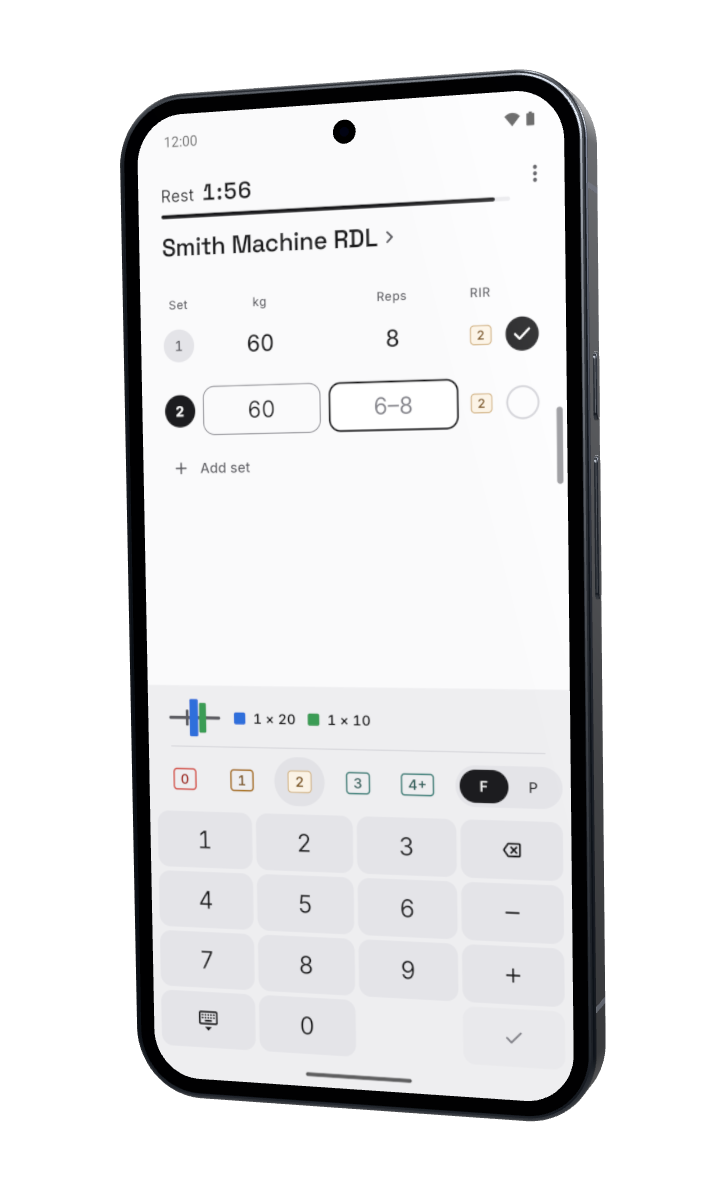
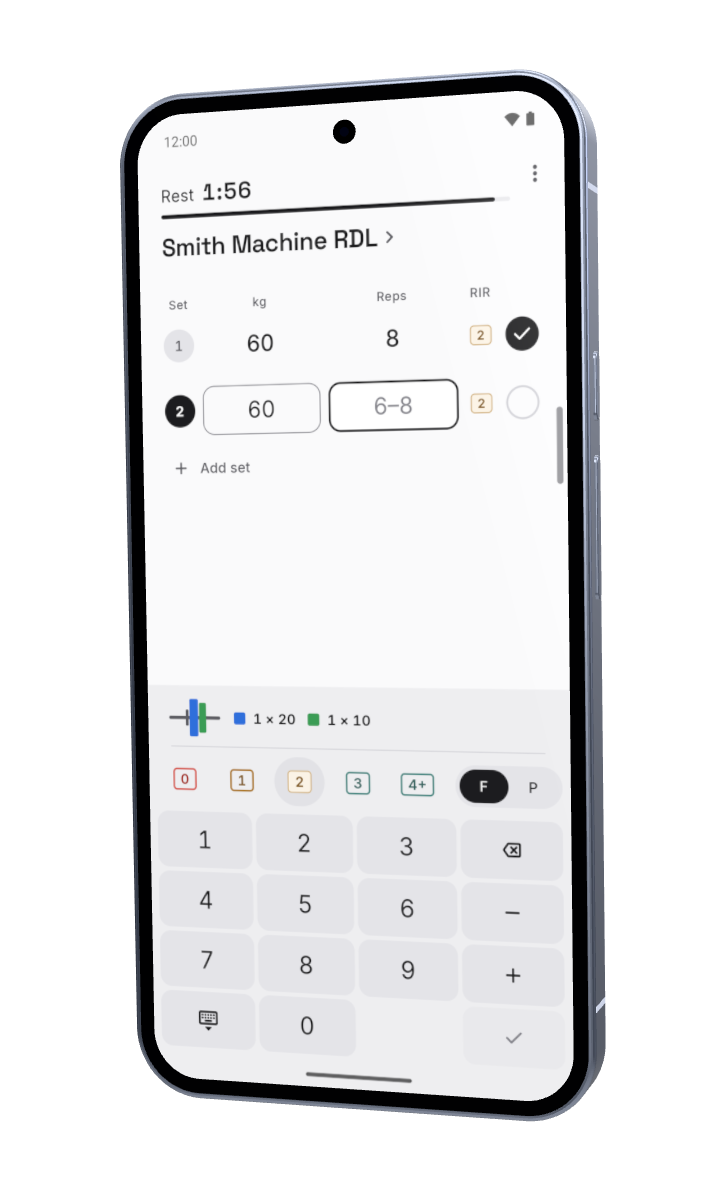
feat: make the light theme's phone moonstone and steady the crossfade (#571)
Owner's eye, live. The light page's phone is a moonstone one, in the live model
and the stills. The crossfade's lean jumped from one end to the other where a
section handed over to the next: it now sways once through a section and is
level at both ends. The snap stops are gone again.

diff --git a/src/phone/phone.js b/src/phone/phone.js
@@ -43,6 +43,12 @@ export const POSES = {
   front: { yaw: -0.3, pitch: 0.05, roll: 0 },
 };
 
+/** The body's colours by the page's theme: a charcoal phone on the dark page, a moonstone one on the light. */
+const FINISHES = {
+  dark: { frame: 0x5a5d62, glass: 0x202124, line: 0x55585e },
+  light: { frame: 0xa3abbd, glass: 0x6c7589, line: 0xc4cad8 },
+};
+
 function roundedRect(width, height, radius) {
   const shape = new Shape();
   const x = -width / 2;
@@ -159,10 +165,9 @@ function lensFace(periscope) {
   return face;
 }
 
-function buildBack(frame) {
+function buildBack({ frame, glass }) {
   // Built facing +z, then turned to face away from the screen.
   const back = new Group();
-  const glass = new MeshStandardMaterial({ color: 0x202124, roughness: 0.45, metalness: 0.25 });
   const visor = new MeshStandardMaterial({ color: 0x040405, roughness: 0.06, metalness: 0.7 });
   const rim = new MeshStandardMaterial({ color: 0x121316, roughness: 0.4, metalness: 1 });
   const dark = new MeshStandardMaterial({ color: 0x0b0c0e, roughness: 0.35, metalness: 0.4 });
@@ -226,9 +231,8 @@ function buildBack(frame) {
 }
 
 /** What the frame carries: the buttons, the antenna lines, and the port and speakers below. */
-function buildEdges(frame) {
+function buildEdges({ frame, line }) {
   const edges = new Group();
-  const line = new MeshStandardMaterial({ color: 0x55585e, roughness: 0.6, metalness: 0.2 });
   const hollow = new MeshStandardMaterial({ color: 0x050506, roughness: 0.5, metalness: 0.3 });
   const flat = DEPTH - 1.8;
 
@@ -317,11 +321,20 @@ export function createPhone(canvas, { fill = 0.74, pixelRatio = 1 } = {}) {
     fragmentShader: SCREEN_FRAGMENT,
   });
 
-  const frame = new MeshStandardMaterial({ color: 0x5a5d62, roughness: 0.27, metalness: 1 });
+  // The body's own materials, coloured by setFinish.
+  const body = {
+    frame: new MeshStandardMaterial({ roughness: 0.27, metalness: 1 }),
+    glass: new MeshStandardMaterial({ roughness: 0.45, metalness: 0.25 }),
+    line: new MeshStandardMaterial({ roughness: 0.6, metalness: 0.2 }),
+  };
+  const setFinish = (name) => {
+    for (const [part, colour] of Object.entries(FINISHES[name])) body[part].color.set(colour);
+  };
+  setFinish("dark");
   const phone = new Group();
-  const body = new Mesh(slab(WIDTH, HEIGHT, DEPTH, CORNER, 0.9), frame);
-  body.position.z = -DEPTH / 2;
-  phone.add(body, buildFront(screen), buildBack(frame), buildEdges(frame));
+  const shell = new Mesh(slab(WIDTH, HEIGHT, DEPTH, CORNER, 0.9), body.frame);
+  shell.position.z = -DEPTH / 2;
+  phone.add(shell, buildFront(screen), buildBack(body), buildEdges(body));
   phone.rotation.order = "YXZ";
   scene.add(phone);
   // A lamp up and to the left for the matte back, and one behind to catch the frame's edge.
@@ -344,6 +357,8 @@ export function createPhone(canvas, { fill = 0.74, pixelRatio = 1 } = {}) {
       camera.position.z = tall / (2 * Math.tan((FIELD_OF_VIEW * Math.PI) / 360));
       camera.updateProjectionMatrix();
     },
+    /** The body's colour: "dark" or "light", after the page's theme. */
+    setFinish,
     setPose({ yaw, pitch, roll }) {
       phone.rotation.set(pitch, yaw, roll);
     },

diff --git a/src/phone/story.js b/src/phone/story.js
@@ -7,16 +7,15 @@ const clamp = (value, low, high) => Math.min(high, Math.max(low, value));
  * `turn` runs from 0 (the back faces the reader) to 1 (the front does) over the first `turnOver`
  * pixels of scroll. `screen` is that of the feature section lying across a line a third of the
  * way down the view, where its words have come up to be read, or Today above the first. `drift`
- * runs from -1 to 1 as that section passes the middle of the view.
+ * sways once as that section crosses the line: to -1, level at the section's middle, to 1 and
+ * level again, so it is the same on both sides of every change of section.
  * `sections` are in page order, their `top` and `bottom` measured from the top of the page.
  */
 export function story({ scrollY, viewport, turnOver, sections }) {
-  const middle = scrollY + viewport / 2;
-  const turn = clamp(scrollY / turnOver, 0, 1);
   const line = scrollY + viewport / 3;
+  const turn = clamp(scrollY / turnOver, 0, 1);
   const section = sections.findLast(({ top }) => top <= line);
   if (!section) return { turn, screen: "today", drift: 0 };
-  const half = (section.bottom - section.top) / 2;
-  const drift = clamp((middle - section.top - half) / half, -1, 1);
-  return { turn, screen: section.screen, drift };
+  const through = clamp((line - section.top) / (section.bottom - section.top), 0, 1);
+  return { turn, screen: section.screen, drift: -Math.sin(2 * Math.PI * through) };
 }

diff --git a/src/phone/stage.js b/src/phone/stage.js
@@ -38,7 +38,8 @@ export function startStage(stage, { transition: named } = {}) {
   // Screens by "screen:theme", once loaded.
   const loaded = new Map();
   const asked = new Set();
-  const keyOf = (screen) => `${screen}:${root.dataset.theme === "light" ? "light" : "dark"}`;
+  const theme = () => (root.dataset.theme === "light" ? "light" : "dark");
+  const keyOf = (screen) => `${screen}:${theme()}`;
   function ask(key) {
     if (asked.has(key)) return;
     asked.add(key);
@@ -82,6 +83,7 @@ export function startStage(stage, { transition: named } = {}) {
       }),
     });
 
+    phone.setFinish(theme());
     const wanted = keyOf(screen);
     ask(wanted);
     if (!change && wanted !== shown && loaded.has(wanted)) {

diff --git a/scripts/stills.html b/scripts/stills.html
@@ -14,9 +14,10 @@
   import { createPhone, POSES } from "/src/phone/phone.js";
 
   const phone = createPhone(document.querySelector("canvas"), { fill: 0.9 });
-  /** A PNG of the phone in a pose, with the screenshot at `shot` on its screen if one is given. */
-  window.still = async (pose, width, height, shot) => {
+  /** A PNG of a theme's phone in a pose, with the screenshot at `shot` on its screen if one is given. */
+  window.still = async (pose, theme, width, height, shot) => {
     phone.setSize(width, height);
+    phone.setFinish(theme);
     phone.setPose(POSES[pose]);
     if (shot) phone.setScreen(await phone.loadScreen(shot));
     phone.render();
